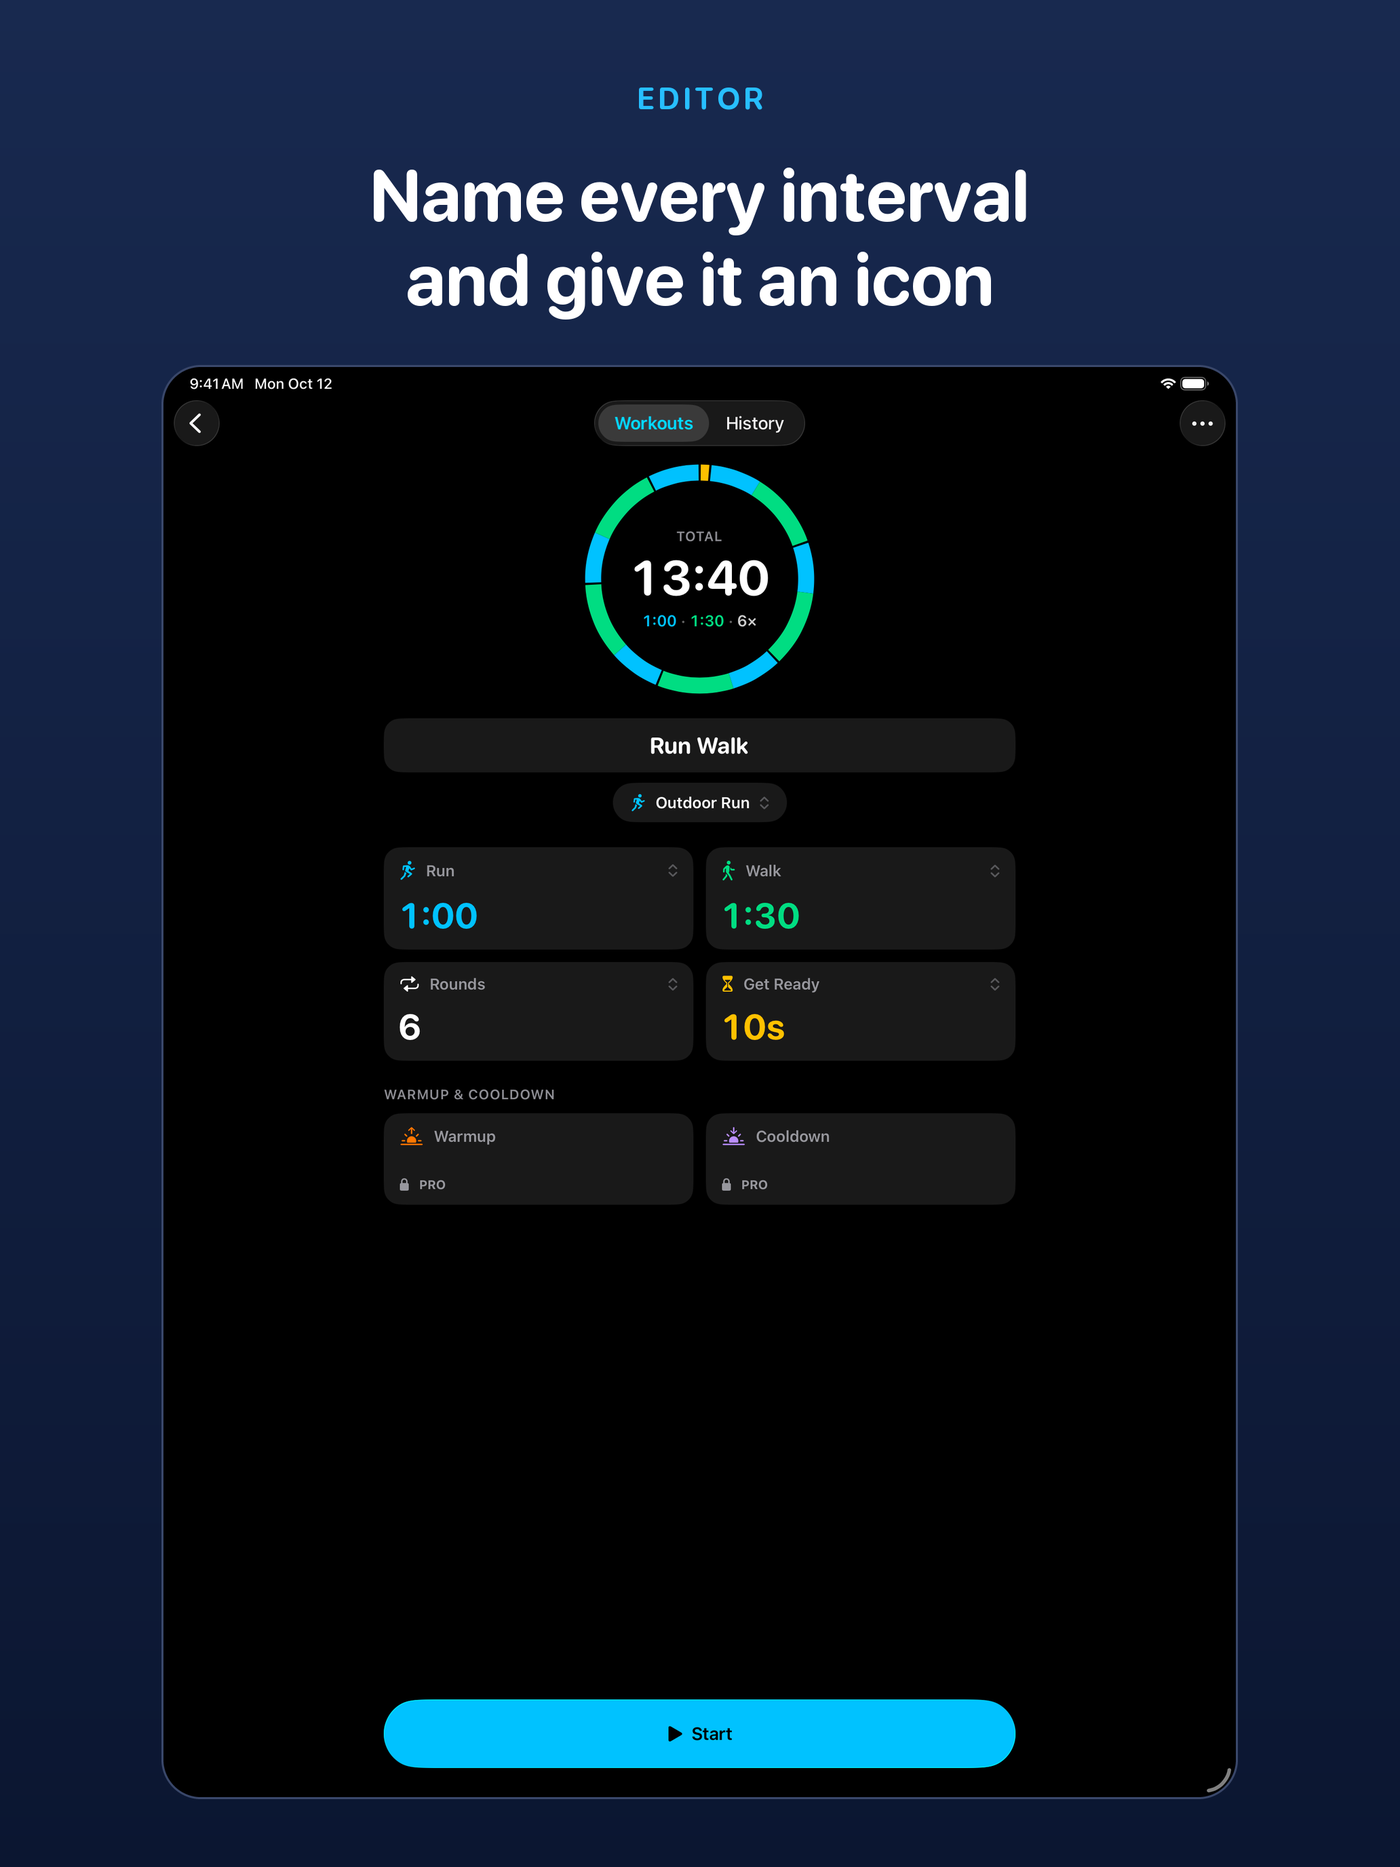
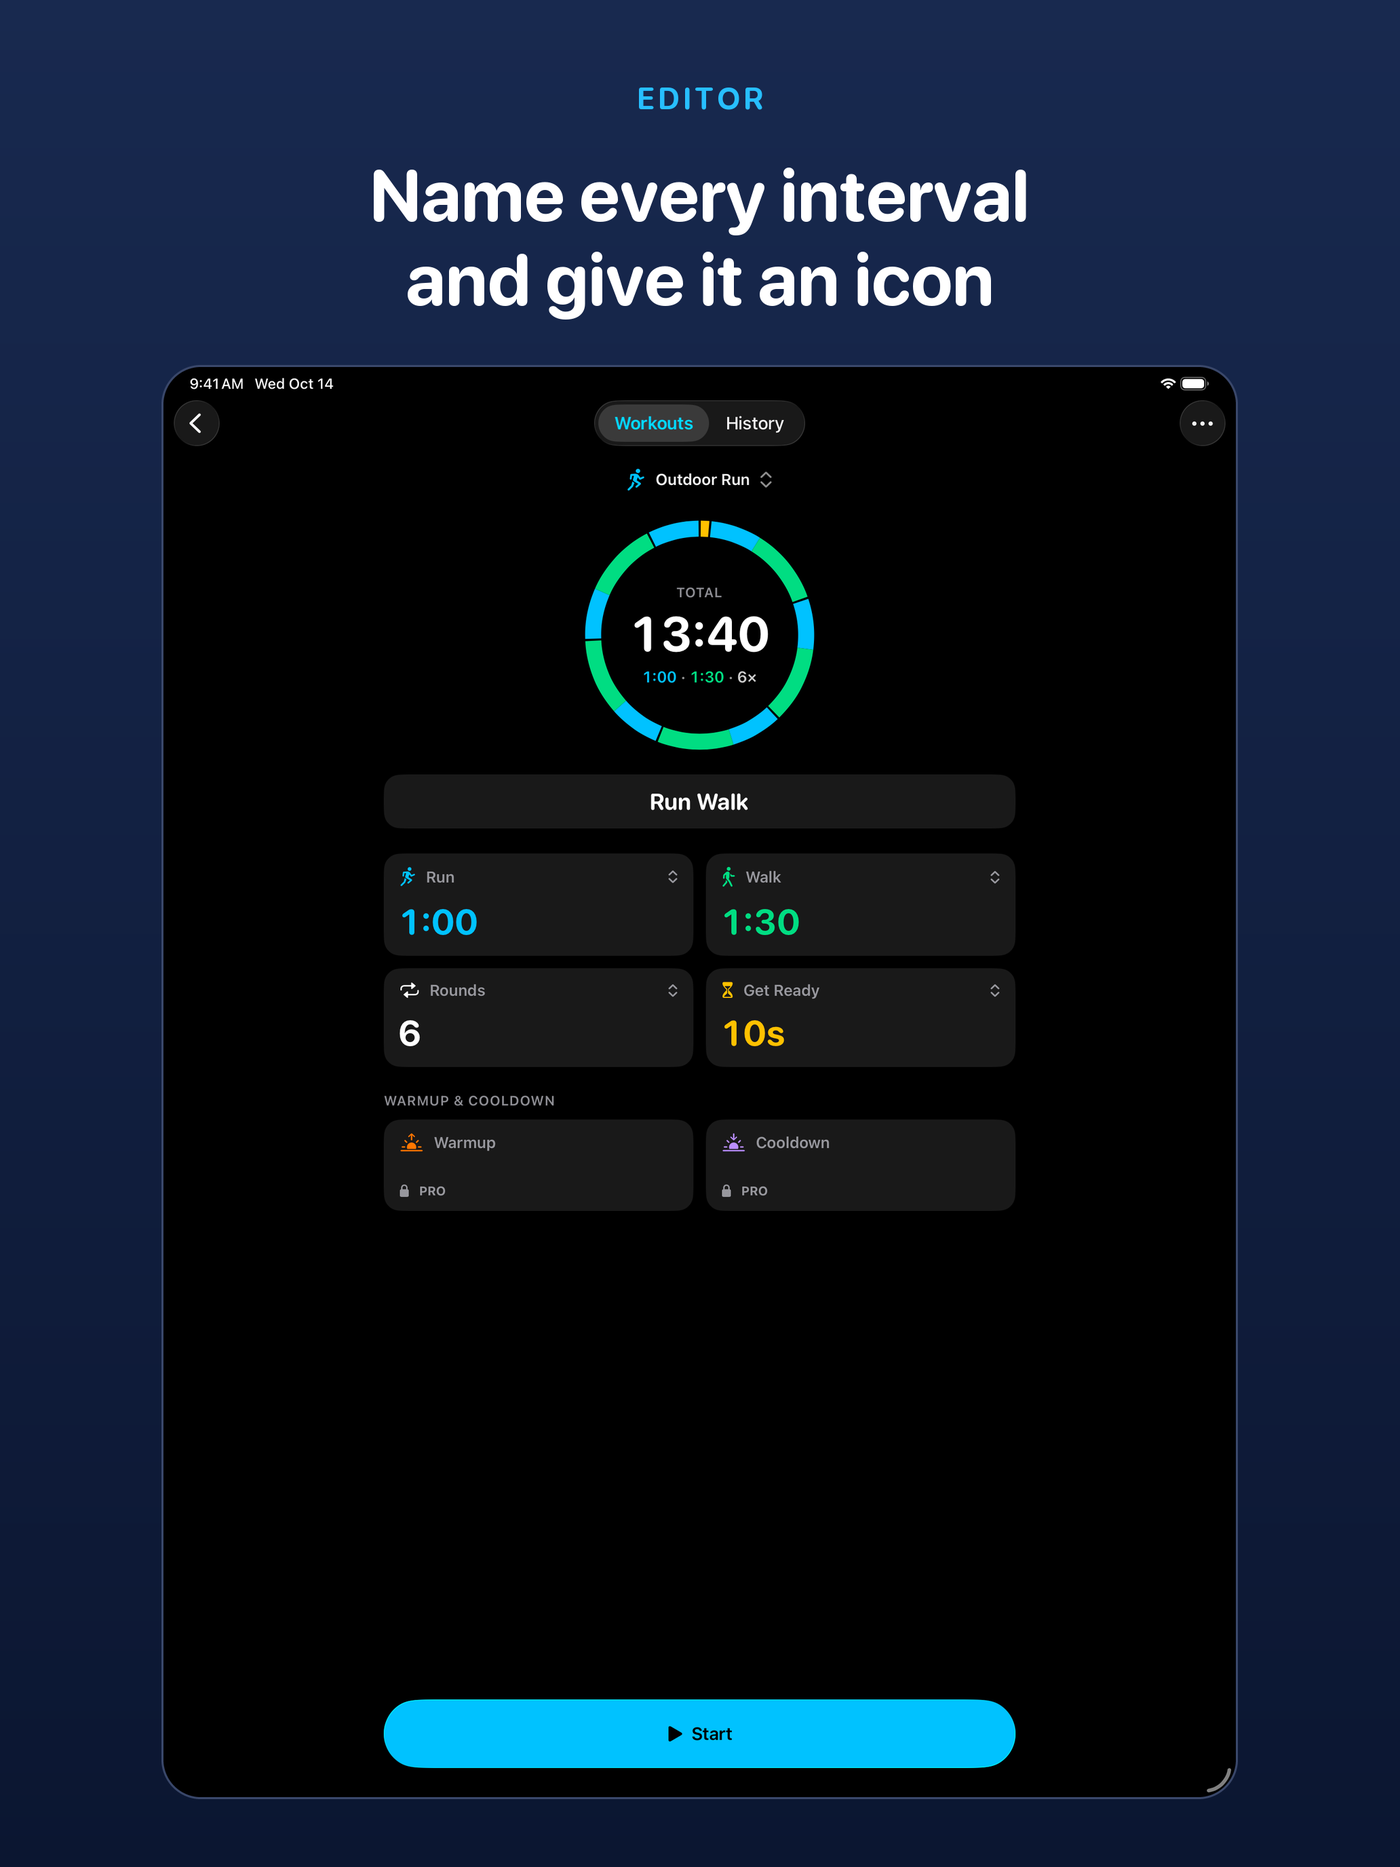
Keep the sounds going outside the app, or say why they stop (1.2 build 5)
On iPhone the cues play with the app in the background only while a
workout session holds it running. Without one (Apple Health declined,
or a session that didn't start), iOS suspends the app the moment it
leaves the screen, and only notifications mark the changes, which the
Ring/Silent switch mutes. The run tried for a session at 1 s and 3 s,
then never again, not even when the user came back: the iPhone's
fallback tier never ends to send it back through the attach.

- Retries at 1, 3, 10 and 30 s, past the one-time prompt a real iPhone
  shows with its first workout session. beginCollection waits 15 s, not 6.
- Coming back to the app restarts the retries. The exception is a retry
  already inside workout.start, which would otherwise be cancelled and
  discard a session that may just have started.
- A start still waiting on collection no longer answers "running" to a
  second caller (review). On the watch, that could leave a run on the
  workout tier with no session and no notification backstop.
- The run screen says "Sounds stop if you leave Intervally" when the
  run, while playing, has settled without a session. Tapping it gives
  the steps to turn on Health in the Health app, with Open Health.

Editor screenshots retaken with the activity at the top of the editor;
build 5.

Changed region(s): [[0.2481, 0.25, 0.7442, 0.6562], [0.4961, 0.5938, 0.7132, 0.6562]]

diff --git a/Run/RunCoordinator.swift b/Run/RunCoordinator.swift
@@ -117,9 +117,22 @@ final class RunCoordinator {
 
     /// A pending retry of the workout session after a fallback. See `scheduleWorkoutUpgrade`.
     @ObservationIgnored private var upgradeTask: Task<Void, Never>?
+    /// The retry is inside `workout.start` rather than waiting for its next try: cancelling
+    /// it then would discard a session that may just have started.
+    @ObservationIgnored private var upgradeAttemptInFlight = false
 
     /// How long to wait before each retry. Injectable so tests need not sleep for real.
-    @ObservationIgnored var upgradeRetryDelays: [TimeInterval] = [1.0, 3.0]
+    ///
+    /// Out to half a minute: on a real iPhone the first workout session raises a one-time
+    /// system prompt about workout data while the phone is locked, and a session asked for
+    /// while it is still up doesn't start. Two retries a few seconds apart ran out before
+    /// anyone had answered it, and the whole run went without a session: silent the moment
+    /// the user left the app. Coming back to the app tries again too (`handleForeground`).
+    @ObservationIgnored var upgradeRetryDelays: [TimeInterval] = [1.0, 3.0, 10.0, 30.0]
+
+    /// Whether a runtime tier is still being taken for this run, so the run screen can tell
+    /// "not yet" from "not at all" before saying the sounds stop outside the app.
+    private(set) var isAcquiringTier = false
 
     /// Drives event dispatch. Owned by the coordinator, not the view: an `autoconnect()`
     /// publisher tears its timer down when the last subscriber disappears, so tying it to
@@ -225,6 +238,7 @@ final class RunCoordinator {
     ///   belongs to this run and should be adopted. Only a brand-new run says no.
     private func attachBackgroundSupport(recovering: Bool = true) {
         guard engine.status == .running, tier == .none, supportTask == nil else { return }
+        isAcquiringTier = true
         supportTask = Task {
             // Asked here rather than at launch: the permission only means something once
             // the user has actually started a workout, and a prompt on the very first
@@ -234,6 +248,7 @@ final class RunCoordinator {
             // Clear BEFORE the deciding refresh: refreshBackstop defers while an acquisition
             // is in flight, and this is the one call that must not be deferred.
             supportTask = nil
+            isAcquiringTier = false
             refreshBackstop()
         }
     }
@@ -322,12 +337,18 @@ final class RunCoordinator {
     private func scheduleWorkoutUpgrade() {
         upgradeTask?.cancel()
         upgradeTask = Task { [weak self] in
+            // Done, one way or the other: a later return to the app may try again. Not when
+            // cancelled, as whoever cancelled it has already replaced or cleared it.
+            defer { if !Task.isCancelled { self?.upgradeTask = nil } }
             guard let delays = self?.upgradeRetryDelays else { return }
             for delay in delays {
                 try? await Task.sleep(for: .seconds(delay))
                 guard let self, !Task.isCancelled, self.engine.isActive,
                       self.tier == .extendedRuntime else { return }
-                guard await self.workout.start(for: self.engine.plan.workout) else { continue }
+                self.upgradeAttemptInFlight = true
+                let started = await self.workout.start(for: self.engine.plan.workout)
+                self.upgradeAttemptInFlight = false
+                guard started else { continue }
 
                 // The run may have ended while the session was starting.
                 guard self.engine.isActive, !Task.isCancelled else {
@@ -654,6 +675,15 @@ final class RunCoordinator {
         // this is the moment to re-take a tier the system took away. Idempotent: the attach
         // is guarded on tier == .none.
         attachBackgroundSupport()
+        // A run that fell back still has no workout session, and on iPhone the fallback
+        // never ends on its own to send it back through the attach above. Back in front is
+        // when one may be started, perhaps with Health just allowed in Settings, so try
+        // again rather than staying silent outside the app for the rest of the run.
+        // Restarted rather than left waiting: allowing Health and coming straight back
+        // otherwise waited out the rest of a 30-second pause before the next try.
+        if tier == .extendedRuntime, workout.isSupported, !upgradeAttemptInFlight {
+            scheduleWorkoutUpgrade()
+        }
         refreshBackstop()
     }
 

diff --git a/Phone/Run/PhoneRunView.swift b/Phone/Run/PhoneRunView.swift
@@ -62,6 +62,8 @@ struct PhoneRunView: View {
     @Environment(\.requestReview) private var requestReview
     @Environment(\.palette) private var palette
     @Environment(\.accessibilityReduceMotion) private var reduceMotion
+    /// The steps to Intervally's Health access, from the silent-outside-the-app warning.
+    @State private var showingHealthSteps = false
 
     @State private var confirmingEnd = false
     @State private var flash: Double = 0
@@ -222,11 +224,52 @@ struct PhoneRunView: View {
             hint("Turn up the volume to hear each interval", systemImage: "speaker.wave.1.fill")
                 .padding(.bottom, 16)
                 .transition(.opacity)
+        } else if run.soundsStopOutsideApp {
+            backgroundWarning
+                .padding(.bottom, 16)
+                .transition(.opacity)
         } else if !soundTipSeen, !run.isMirroring, position.phase?.kind == .prepare {
             // While getting ready, before the first change: the moment to set the volume.
             hint("Set how loud the beeps are with the volume buttons", systemImage: "speaker.wave.2.fill")
                 .padding(.bottom, 16)
                 .transition(.opacity)
+        }
+    }
+
+    /// The run has no workout session, so leaving the app silences it: almost always because
+    /// Apple Health isn't allowed, which once declined only the Health app can change (the
+    /// app's Settings page has no Health row). Back from Health, the run tries for a session
+    /// again (`RunCoordinator.handleForeground`) and this goes once it has one.
+    private var backgroundWarning: some View {
+        Button {
+            showingHealthSteps = true
+        } label: {
+            HStack(spacing: 10) {
+                Image(systemName: "speaker.slash.fill")
+                    .font(.headline)
+                VStack(alignment: .leading, spacing: 2) {
+                    Text(RunScreenText.silentOutsideTitle)
+                        .font(.subheadline.weight(.semibold))
+                    Text(RunScreenText.silentOutsideDetail)
+                        .font(.footnote)
+                        .foregroundStyle(.secondary)
+                }
+                .multilineTextAlignment(.leading)
+            }
+            .padding(.horizontal, 16)
+            .padding(.vertical, 10)
+            .glassEffect(.regular.interactive(), in: .rect(cornerRadius: 18))
+        }
+        .buttonStyle(.plain)
+        .dynamicTypeSize(...DynamicTypeSize.accessibility1)
+        .accessibilityHint("Shows how to turn on Apple Health")
+        .alert(RunScreenText.healthStepsTitle, isPresented: $showingHealthSteps) {
+            Button("Open Health") {
+                if let url = URL(string: "x-apple-health://") { UIApplication.shared.open(url) }
+            }
+            Button("Not Now", role: .cancel) {}
+        } message: {
+            Text(RunScreenText.healthSteps)
         }
     }
 
@@ -455,4 +498,14 @@ struct RunSummaryView: View {
                 .foregroundStyle(.secondary)
         }
     }
+}
+
+/// The run screen's warning when leaving the app would silence the run.
+enum RunScreenText {
+    static let silentOutsideTitle = "Sounds stop if you leave Intervally"
+    static let silentOutsideDetail = "Turn on Apple Health for Intervally to keep them playing"
+    static let healthStepsTitle = "Keep the sounds playing"
+    /// The way to Intervally's Health access, as History gives it.
+    static let healthSteps = "Apple Health lets Intervally keep running when you switch apps or lock your phone. "
+        + "\(HistoryMessage.whereToCheck) Turn on Workouts, then come back: the workout picks up its sounds."
 }

diff --git a/Run/WorkoutSessionController.swift b/Run/WorkoutSessionController.swift
@@ -33,6 +33,11 @@ final class WorkoutSessionController: NSObject {
     /// Set while the app is deliberately tearing the session down, so an expected `.ended`
     /// transition is not mistaken for a failure.
     @ObservationIgnored private var isEnding = false
+    /// A start still waiting on `beginCollection`. The delegate marks the session running
+    /// as soon as its activity starts, before collection has: a second caller then took
+    /// "running" for a session that the timeout went on to end, and its run sat on the
+    /// workout tier with no session and no notification backstop.
+    @ObservationIgnored private var isStarting = false
     /// The in-flight Health save, so a restart waits for it instead of racing it.
     @ObservationIgnored private var teardownTask: Task<Void, Never>?
 
@@ -101,7 +106,7 @@ final class WorkoutSessionController: NSObject {
     /// instead leaves that session never ended and never finished, so everything recorded
     /// before the termination is lost and the workout never lands in Health.
     func adoptRecoveredSession() async -> Bool {
-        guard Self.isSupported, session == nil else { return isRunning }
+        guard Self.isSupported, session == nil else { return isRunning && !isStarting }
         // Errors and a stuck call both come back as nil: there is nothing to adopt.
         guard let recovered = await recoverWithTimeout(seconds: 3) else { return false }
         let builder = recovered.associatedWorkoutBuilder()
@@ -295,7 +300,9 @@ final class WorkoutSessionController: NSObject {
     private func start(at date: Date, tagging workout: IntervalWorkout?) async -> Bool {
         // Wait out any teardown still in flight rather than reporting its stale state.
         await awaitTeardown(seconds: 8)
-        guard Self.isSupported, session == nil else { return isRunning }
+        guard Self.isSupported, session == nil else { return isRunning && !isStarting }
+        isStarting = true
+        defer { isStarting = false }
 
         // The preset's own activity: what Fitness shows it as, and on the watch what its
         // calories are estimated for.
@@ -312,7 +319,10 @@ final class WorkoutSessionController: NSObject {
             self.builder = builder
 
             session.startActivity(with: date)
-            let outcome = await beginCollection(at: date, timeout: 6)
+            // Long enough to answer the one-time prompt a real iPhone shows with its first
+            // workout session, which collection waits behind; short enough that a wedged
+            // healthd still falls back within the first interval.
+            let outcome = await beginCollection(at: date, timeout: 15)
             if case .began = outcome {} else {
                 // The session is already running in HealthKit by this point. Dropping our
                 // references is not enough — it would carry on with nobody holding it, keep

diff --git a/Tests/RunCoordinatorTests.swift b/Tests/RunCoordinatorTests.swift
@@ -699,6 +699,57 @@ struct RunCoordinatorUpgradeTests {
         #expect(spy.scheduleCount >= 1)
     }
 
+    /// Health declined at the first Start, then allowed in Settings: the run must take its
+    /// session when the user comes back, or it stays silent outside the app to the end.
+    @Test("Back in the app after the retries ran out, a fallen-back run tries for a session again")
+    func foregroundRetriesTheSession() async {
+        let (coordinator, _, workout, _, spy, _, _) = makeCoordinator()
+        coordinator.upgradeRetryDelays = [0.01]
+        workout.startResult = false
+
+        coordinator.begin()
+        await settle(coordinator)
+        try? await Task.sleep(for: .milliseconds(60))
+        await settle(coordinator)
+        #expect(coordinator.tier == .extendedRuntime)
+        #expect(coordinator.isAcquiringTier == false)
+        #expect(workout.startCount == 2)
+
+        workout.startResult = true
+        coordinator.handleForeground()
+        await eventually(coordinator) { coordinator.tier == .workout }
+
+        #expect(coordinator.tier == .workout)
+        #expect(workout.startCount == 3)
+        #expect(spy.calls.last == .cancelAll, "A session plays the cues itself, so the backstop goes")
+    }
+
+    @Test("Coming back to the app tries again at once instead of waiting out a long pause")
+    func foregroundRestartsAWaitingRetry() async {
+        let (coordinator, _, workout, _, _, _, _) = makeCoordinator()
+        coordinator.upgradeRetryDelays = [0.02, 5]
+        workout.startResult = false
+
+        coordinator.begin()
+        await settle(coordinator)
+        try? await Task.sleep(for: .milliseconds(80))
+        await settle(coordinator)
+        // The first attempt and the quick retry; the next is five seconds off.
+        #expect(workout.startCount == 2)
+
+        workout.startResult = true
+        coordinator.handleForeground()
+        await eventually(coordinator) { coordinator.tier == .workout }
+        #expect(coordinator.tier == .workout, "Restarted from the quick retry, not the five-second one")
+        #expect(workout.startCount == 3)
+    }
+
+    @Test("The retries reach half a minute, past the iPhone's one-time workout prompt")
+    func retriesOutlastThePrompt() {
+        let (coordinator, _, _, _, _, _, _) = makeCoordinator()
+        #expect(coordinator.upgradeRetryDelays.reduce(0, +) >= 30)
+    }
+
     @Test("A run that ends before the retry does not get a session attached afterwards")
     func endedRunIsNotUpgraded() async {
         let (coordinator, _, workout, _, _, _, _) = makeCoordinator()

diff --git a/PhoneTests/PhoneRunTests.swift b/PhoneTests/PhoneRunTests.swift
@@ -529,3 +529,28 @@ struct PhoneRunTests {
         run.close()
     }
 }
+
+@Suite("Silent outside the app")
+struct SoundsStopOutsideAppTests {
+    @Test("Warned only for this iPhone's own run, once it has settled without a workout session")
+    func rule() {
+        func warns(mirroring: Bool = false, running: Bool = true, tier: RunCoordinator.RuntimeTier = .extendedRuntime,
+                   acquiring: Bool = false, supported: Bool = true) -> Bool {
+            PhoneRun.soundsStopOutsideApp(isMirroring: mirroring, isRunning: running, tier: tier, isAcquiring: acquiring, sessionsSupported: supported)
+        }
+        #expect(warns())
+        #expect(warns(tier: .none))
+        #expect(!warns(tier: .workout), "A workout session keeps the app playing")
+        #expect(!warns(acquiring: true), "Not while the session is still being asked for")
+        #expect(!warns(mirroring: true), "The watch runs it and taps the wrist")
+        #expect(!warns(running: false), "Paused or over: nothing is playing")
+        #expect(!warns(supported: false), "No Health on this device: nothing Settings could fix")
+    }
+
+    @Test("The warning says what happens and what fixes it")
+    func copy() {
+        #expect(RunScreenText.silentOutsideTitle == "Sounds stop if you leave Intervally")
+        #expect(RunScreenText.silentOutsideDetail.contains("Apple Health"))
+        #expect(RunScreenText.healthSteps.contains(HistoryMessage.whereToCheck), "The same way to Health that History gives")
+    }
+}

diff --git a/Phone/Run/PhoneRun.swift b/Phone/Run/PhoneRun.swift
@@ -122,6 +122,28 @@ final class PhoneRun {
         showsWatchRun && mirror.engine != nil
     }
 
+    /// This iPhone's run has no workout session, so its sounds stop the moment the user
+    /// leaves the app: iOS suspends it, and only the notification backstop marks the changes,
+    /// which the Ring/Silent switch mutes. The run screen says so, and how to fix it.
+    var soundsStopOutsideApp: Bool {
+        Self.soundsStopOutsideApp(
+            isMirroring: isMirroring,
+            isRunning: coordinator.engine.status == .running,
+            tier: coordinator.tier,
+            isAcquiring: coordinator.isAcquiringTier,
+            sessionsSupported: coordinator.workout.isSupported
+        )
+    }
+
+    /// Not while the session is still being asked for: a run that is about to get one would
+    /// flash the warning on every Start. Nor while paused, when nothing is playing: a run
+    /// restored paused takes its session only once resumed.
+    nonisolated static func soundsStopOutsideApp(
+        isMirroring: Bool, isRunning: Bool, tier: RunCoordinator.RuntimeTier, isAcquiring: Bool, sessionsSupported: Bool
+    ) -> Bool {
+        !isMirroring && isRunning && sessionsSupported && !isAcquiring && tier != .workout
+    }
+
     /// The screen is up for a run of this iPhone's: starting, running or finished.
     private var ownRunOnScreen: Bool { isPresented && !showsWatchRun }
 
